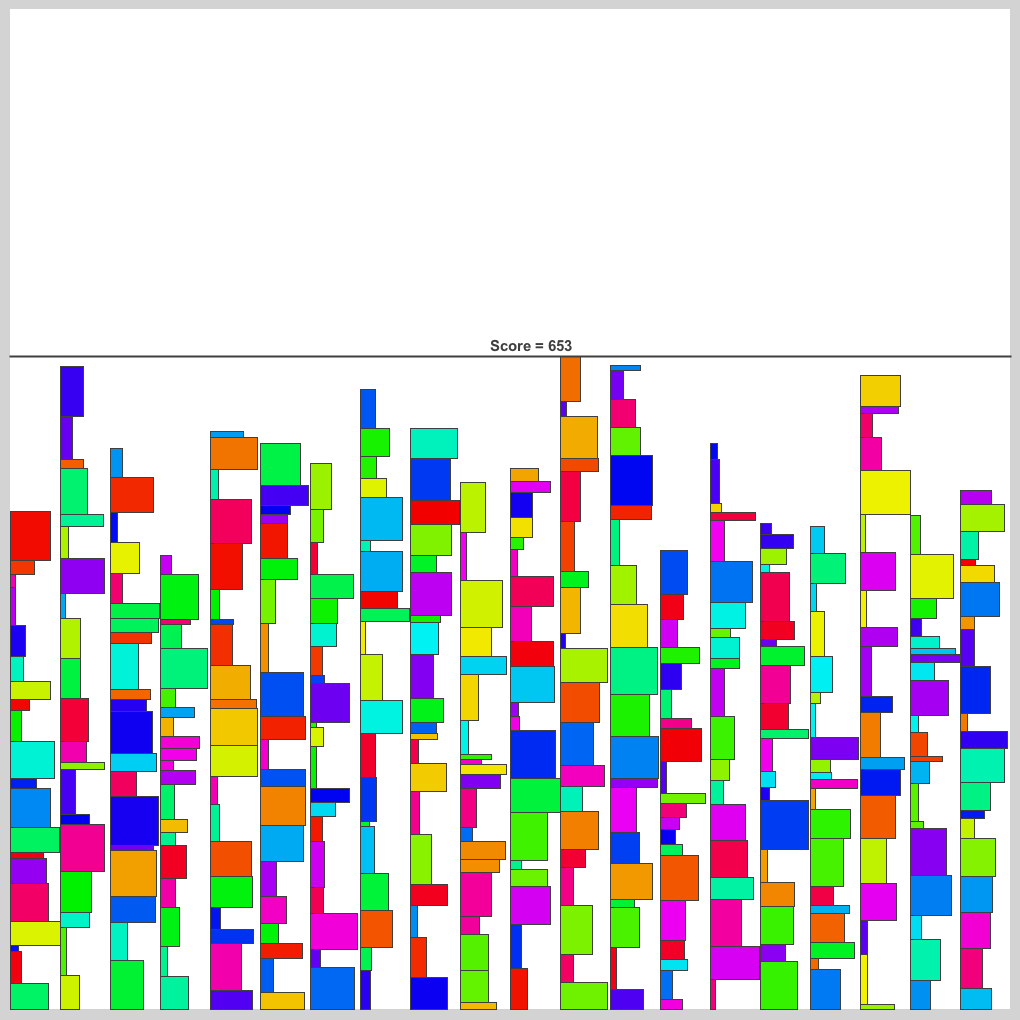
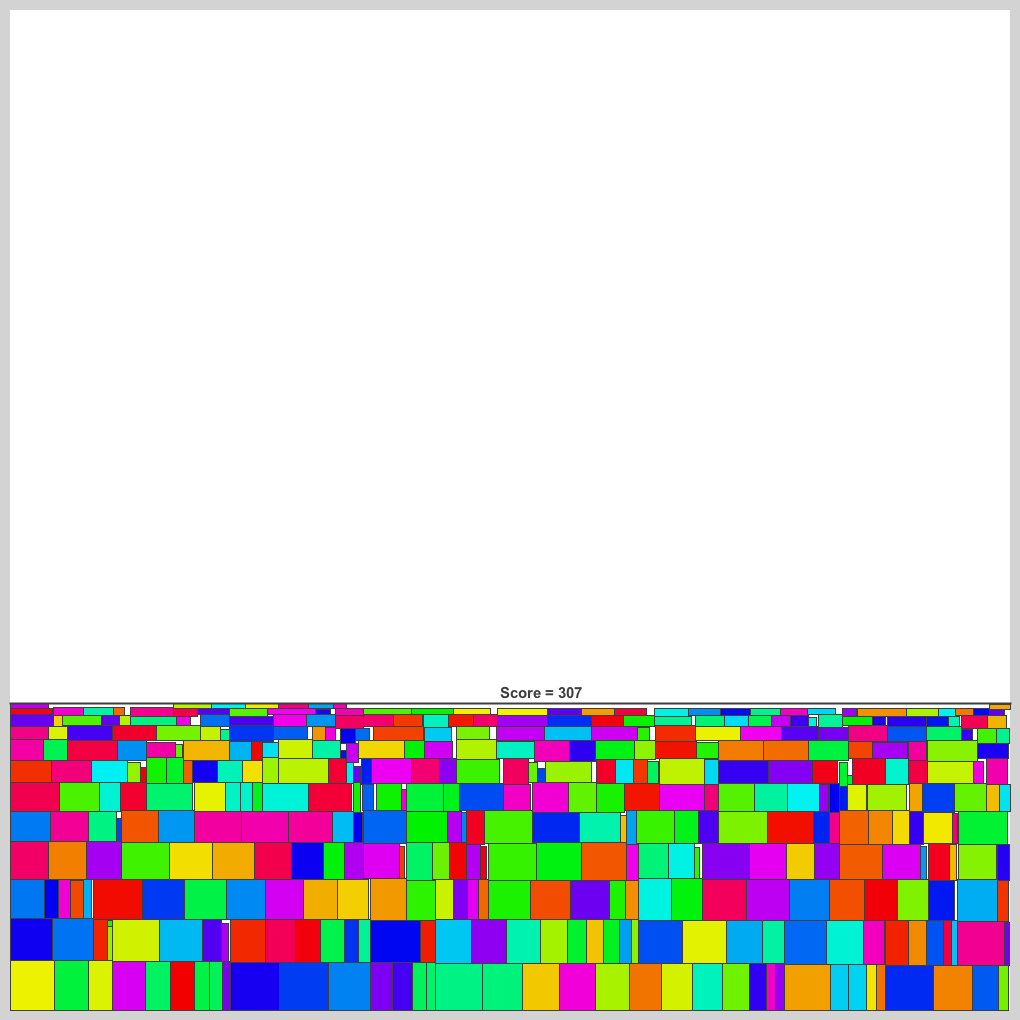
RPPを試しに考えた．

diff --git a/RectanglePacking/README.md b/RectanglePacking/README.md
@@ -43,18 +43,18 @@ $ java -jar Tester.jar -exec "<command>" -seed <seed>
 ```
 
 ## 目安？
-底に寄せるだけのプログラムを書いた．（高さの最大値は1000）．
+{h[idx], w[idx], idx}で長方形を降順ソートして，BLF法で敷き詰めたら以下のようになった．
 
-1)  638
-2)  658
-3)  653
-4)  641
-5)  685
-6)  650
-7)  741
-8)  663
-9)  622
-10) 656  
+1)  305
+2)  302
+3)  307
+4)  297
+5)  306
+6)  293
+7)  315
+8)  314
+9)  306
+10) 315  
   
 ![1.png](image/1.png)
 
